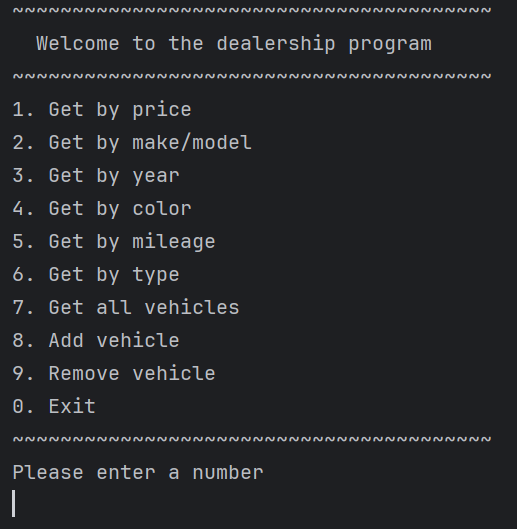
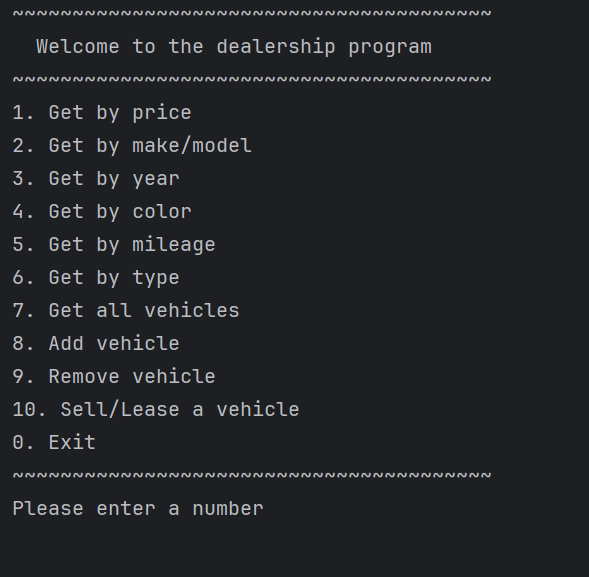
added read me. final commit

diff --git a/README.md b/README.md
@@ -1,8 +1,7 @@
 _______________________
 # Car Dealership
 _______________________
-## This is a console based app that enables car salesperson or managers to manage and keep track of the vehicles. It also allows the users to filter the vehicles by various categories as well as add or remove vehicles of their choice.
-________________________
+## This is a updated version of the Car Dealership console application. In this version, users are allowed to sell or lease a vehicle. The program calculates all of the costs and updates the inventory and contract. ________________________
 # *Features*
 
 - Error Handling
@@ -12,50 +11,27 @@ ________________________
 - List All Vehicles
 - Add Vehicle
 - Remove Vehicle
+- Sell a Vehicle
+- Lease a Vehicle
 ___________________________________
 # *Interesting Code*
 
-        private ArrayList<Vehicle> inventory;
+     @Override
+    public double getTotalPrice() {
+        double vehiclePrice = getVehicleSold().getPrice();
+        double salesTotalPrice = vehiclePrice+getSalesTaxAmount()+getRecordingFee()+getProcessingFee();
 
-    public Dealership(String name, String address, String phone) {
-        this.name = name;
-        this.address = address;
-        this.phone = phone;
-        this.inventory = new ArrayList<>();
-
+        return salesTotalPrice;
     }
-This is the most interesting code in this program to me. Inside the constructor, we create a new, empty ArrayList and assigns it to inventory. I had never seen that being done before and it was different than our ususal initialization.
+
+This is the most interesting code in this program to me. Using one of the pillar of OOP, Abstraction, allowed us to use the same method but implement it in different ways. This helped in scalability and keep the code DRY.
 _______________________________________________
 # Screenshots
 ### Main Menu
 ![mainmenu.png](Screenshots/mainmenu.png)
-____________________________________________
 
-### Filter by Price
-![byPrice.png](Screenshots/byPrice.png)
-________________________________________________
-### Filter by Make/Model
-![byMakeModel.png](Screenshots/byMakeModel.png)
-________________________________________________
-### Filter by Year
-![byYear.png](Screenshots/byYear.png)
-__________________________________________________
-### Filter by Color
-![byColor.png](Screenshots/byColor.png)
-_________________________________________________
-### Filter by Mileage
-![byMileage.png](Screenshots/byMileage.png)
-_________________________________________________
-### Filter by Vehicle Type
-![byType.png](Screenshots/byType.png)
-_________________________________________________
-### All Vehicles
-![byAllVehicles.png](Screenshots/byAllVehicles.png)
-___________________________________________________
-### Add Vehicle
-![addVehicle.png](Screenshots/addVehicle.png)
-_____________________________________________________
-### Remove Vehicle
-![removeVehicle.png](Screenshots/removeVehicle.png)
-### Exit Program
-![exit.png](Screenshots/exit.png)
+### Sell Menu
+![sell.png](Screenshots/sell.png)
+
+### Lease Menu
+![lease.png](Screenshots/lease.png)
